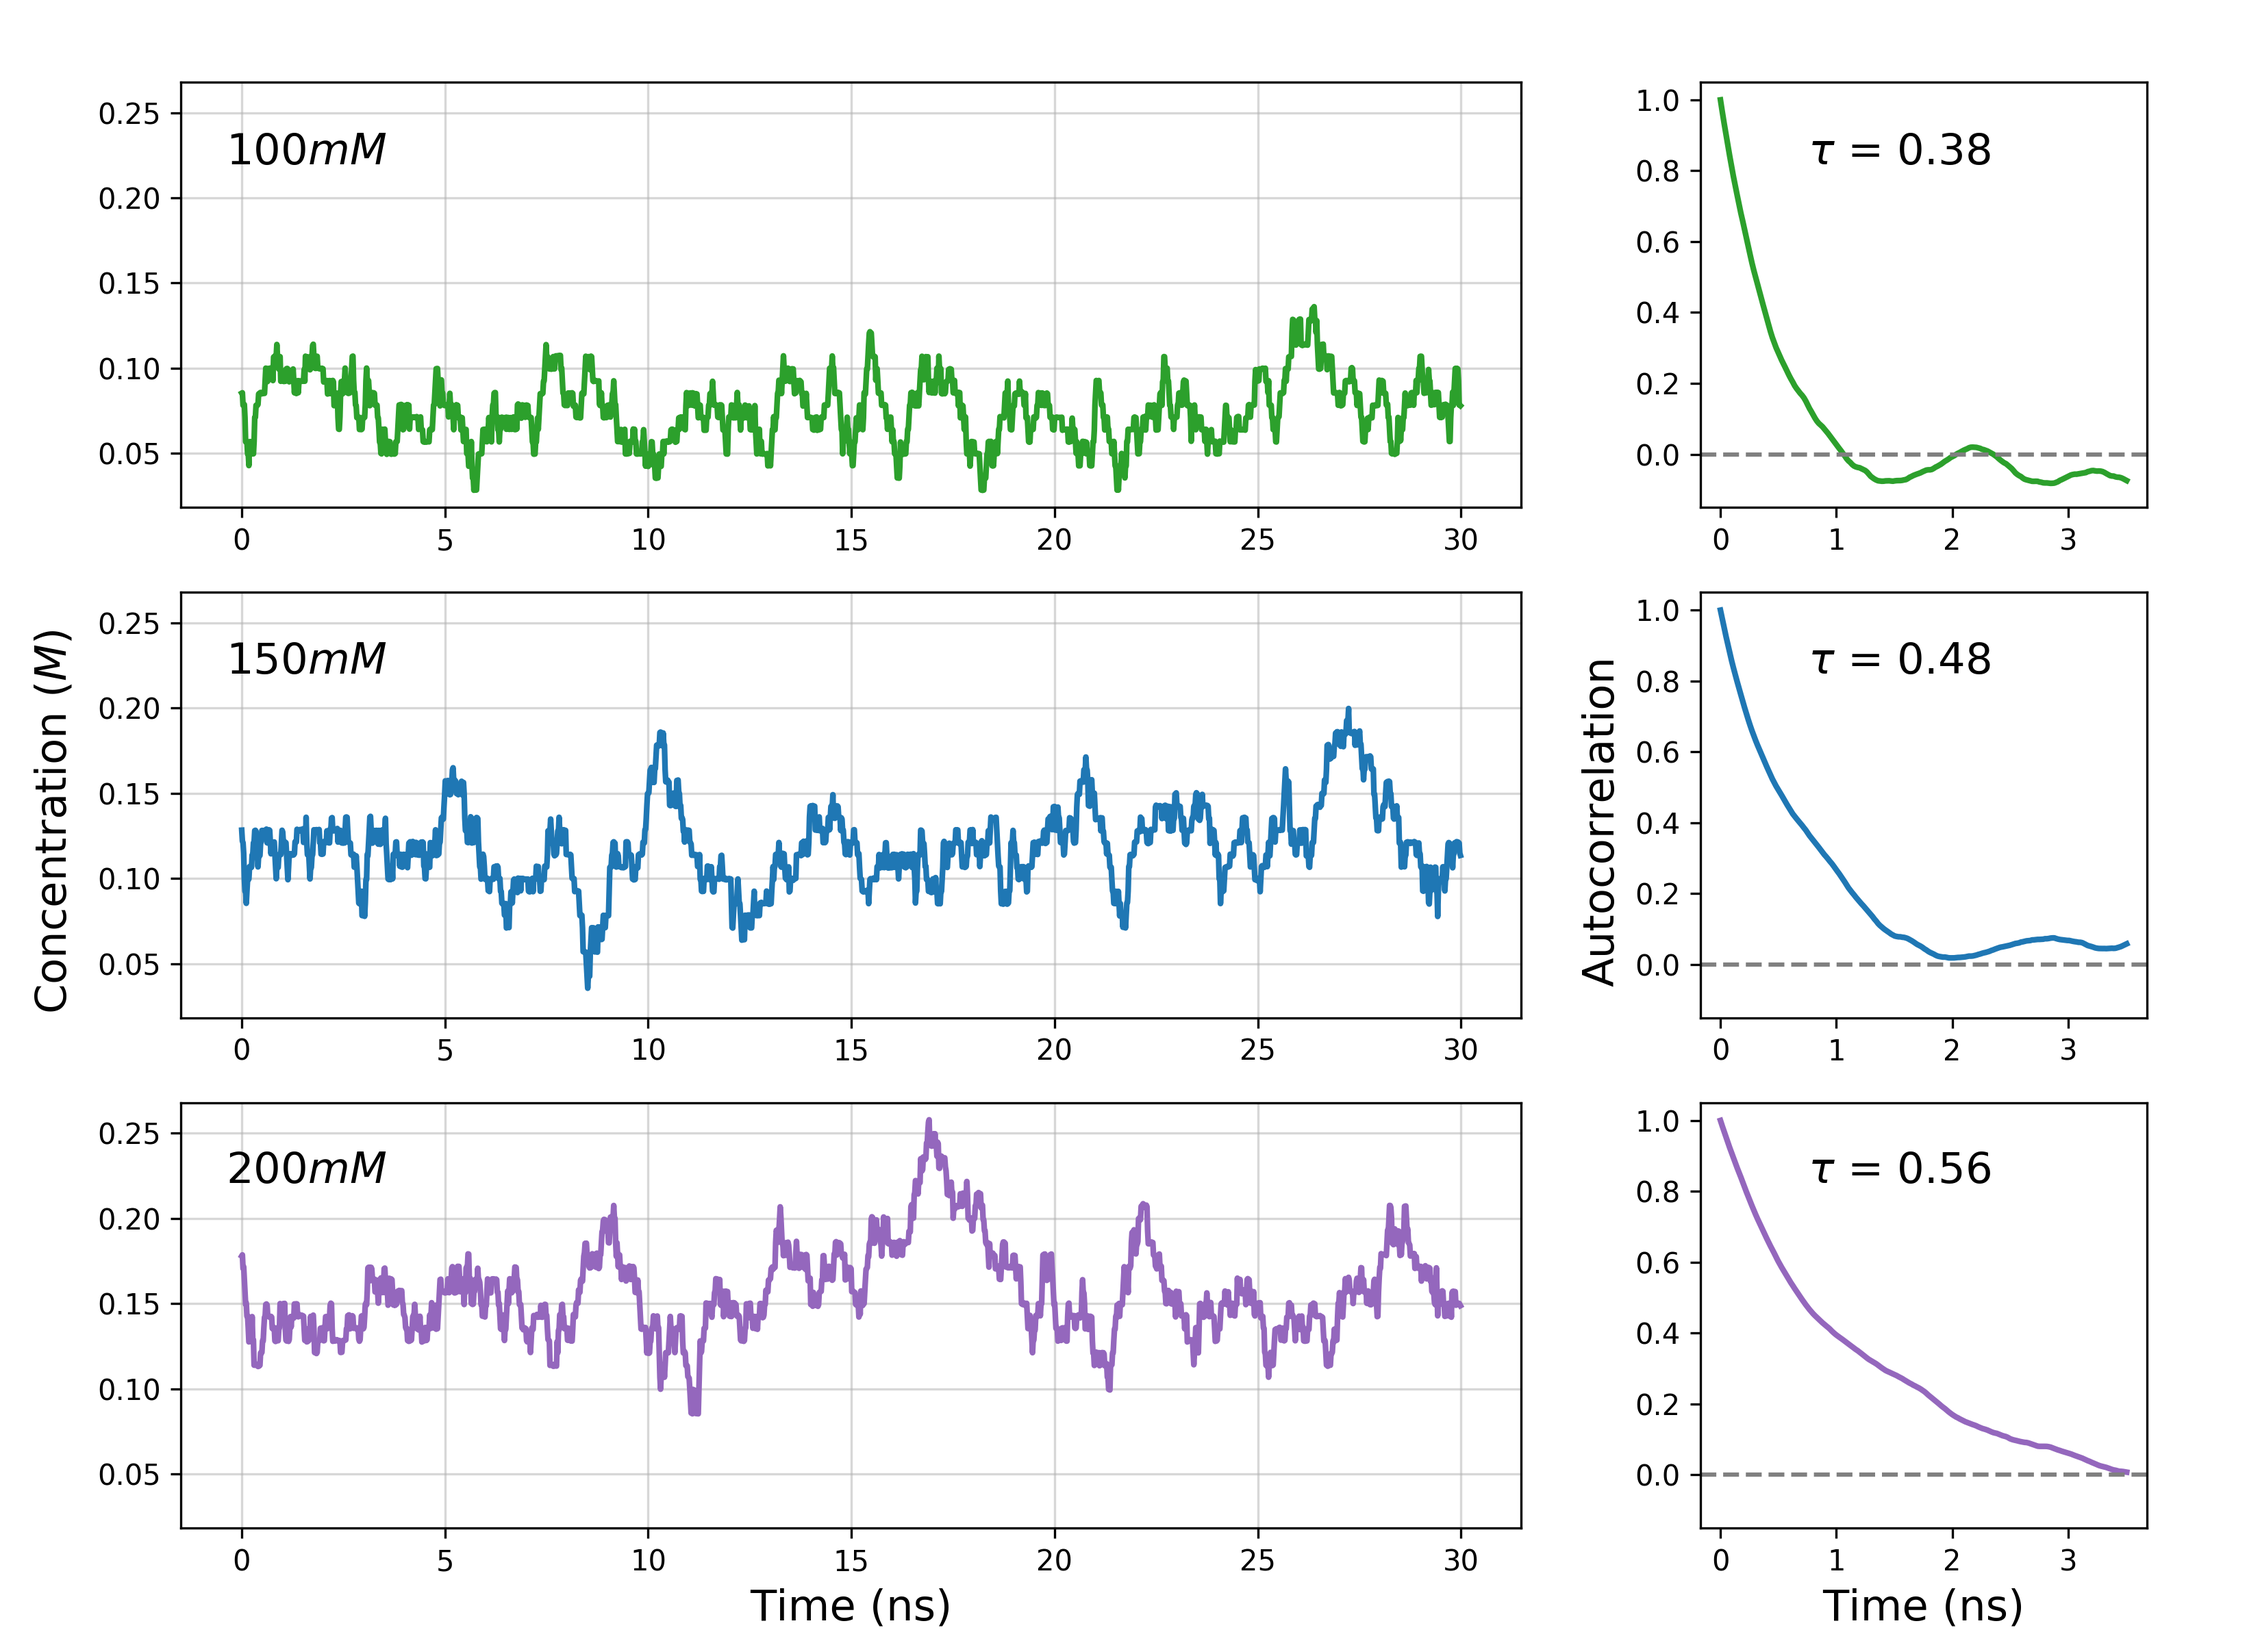
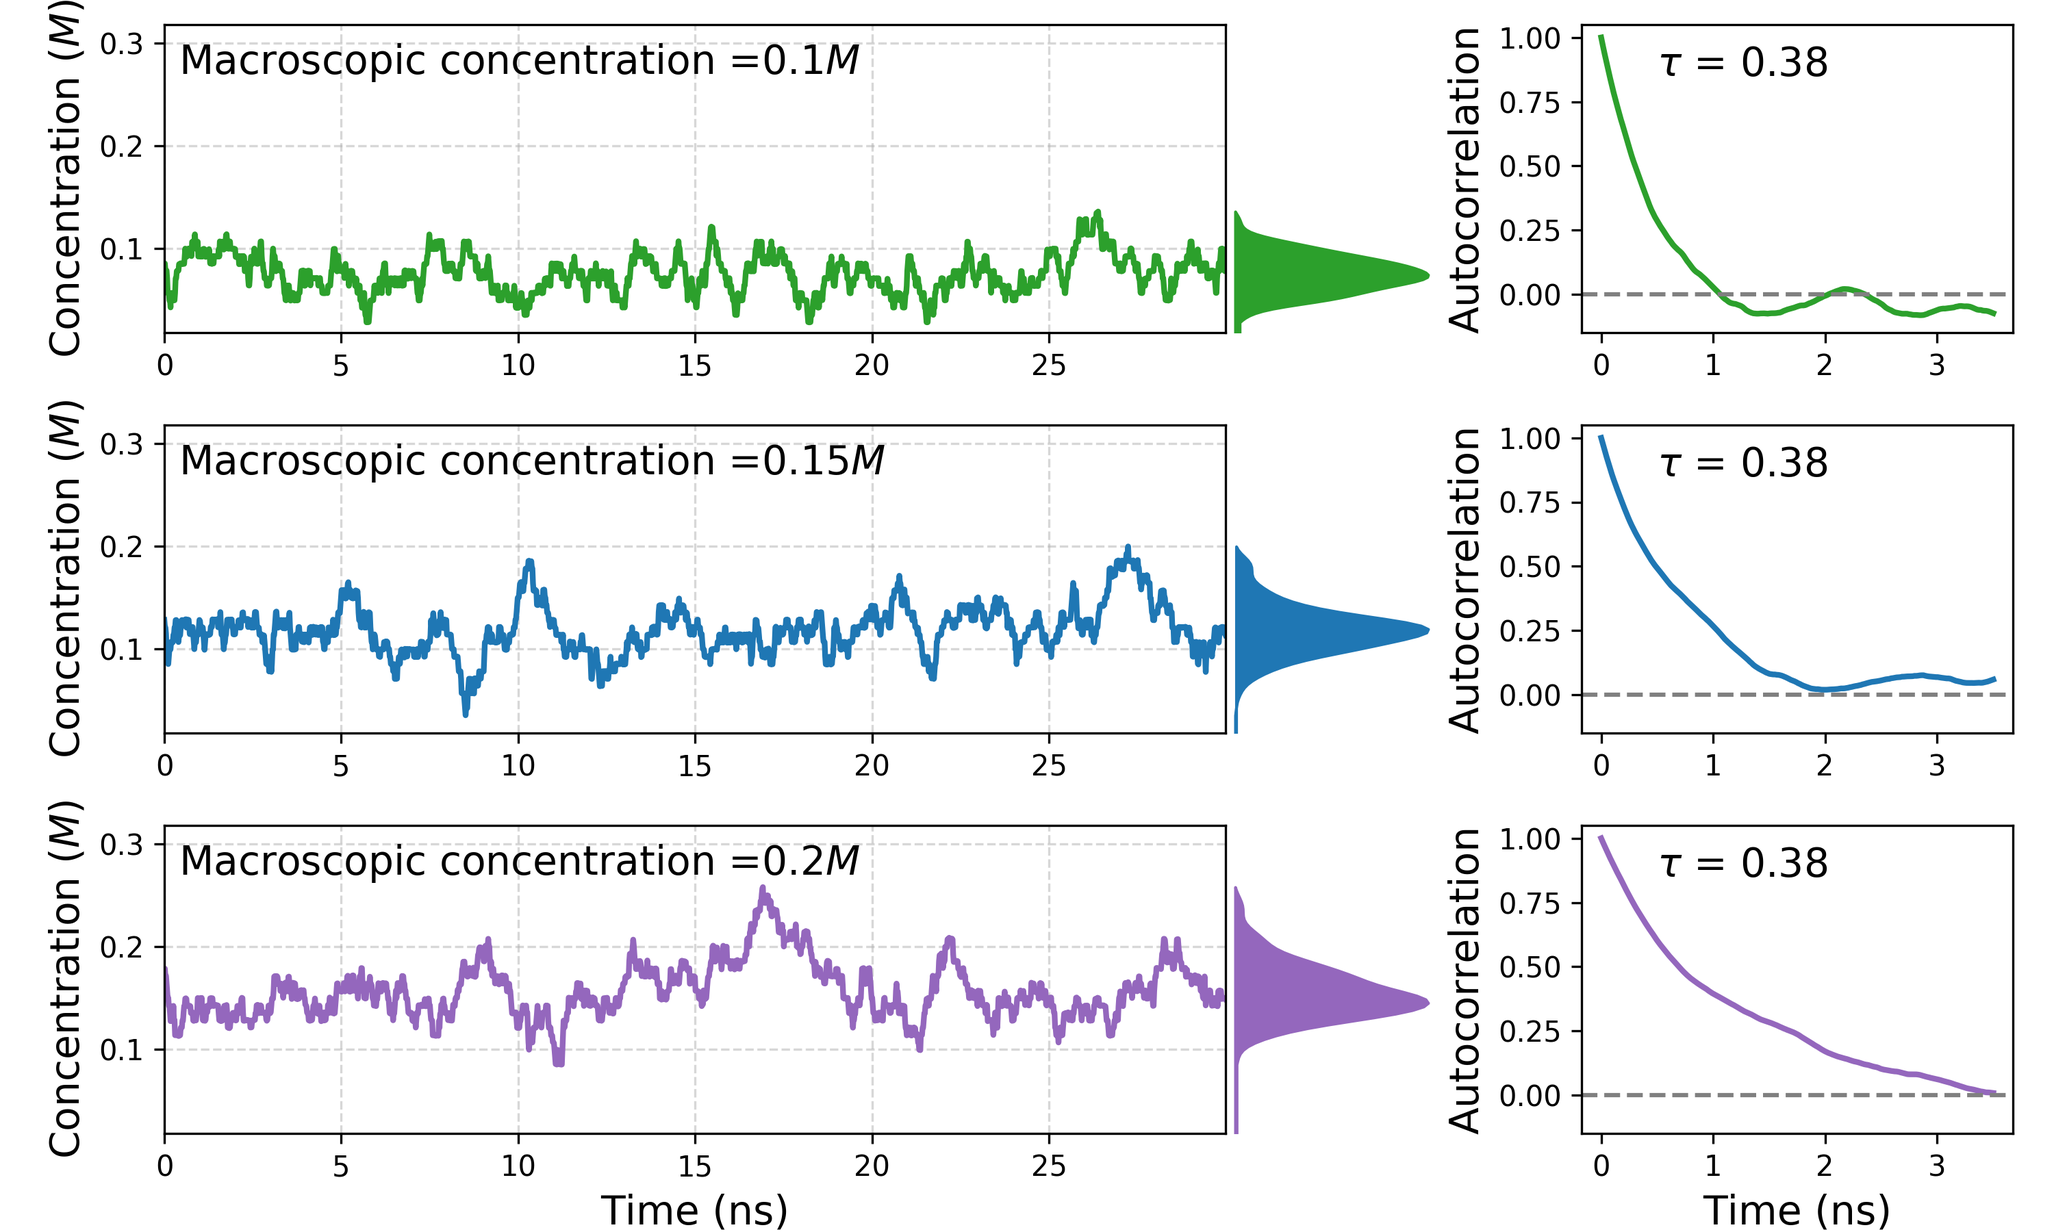
Updated DHFR sampling plot with histogram from timeseries. This required re-working the plotting method.

diff --git a/analysis_scripts/plot_dhfr_sampling.py b/analysis_scripts/plot_dhfr_sampling.py
@@ -1,11 +1,12 @@
 import numpy as np
 from netCDF4 import Dataset
 import matplotlib.pyplot as plt
-
+import matplotlib.gridspec as gridspec
+from scipy.stats import gaussian_kde
 from pymbar import timeseries
 
 # Plotting parameters
-FONTSIZE = 15
+FONTSIZE = 14
 TICKSIZE = 12
 LEGENDSIZE = 12
 LINEWIDTH = 2
@@ -70,12 +71,18 @@ corr_t_200mM = corr_t_200mM/float(runs)
 corfunc_100mM = timeseries.normalizedFluctuationCorrelationFunction(np.hstack((conc_100mM[0,:],conc_100mM[1,:],conc_100mM[2,:])), norm=True)
 corfunc_150mM = timeseries.normalizedFluctuationCorrelationFunction(np.hstack((conc_150mM[0,:],conc_150mM[1,:],conc_150mM[2,:])), norm=True)
 corfunc_200mM = timeseries.normalizedFluctuationCorrelationFunction(np.hstack((conc_200mM[0,:],conc_200mM[1,:],conc_200mM[2,:])), norm=True)
+### Creating a grid of subplots with specific spacing
+plt.figure(figsize=(10, 6))
+gs1 = gridspec.GridSpec(3, 6)
+gs1.update(top=0.98, bottom= 0.08, left=0.08, right=0.7, wspace=0.0, hspace=0.3)
+gs2 = gridspec.GridSpec(3, 1)
+gs2.update(top=0.98, bottom= 0.08, left=0.77, right=0.98, hspace=0.3)
 
-### The actual plotting part
-fig, ax = plt.subplots(3, 2, figsize=(11,8), gridspec_kw={'width_ratios':[3, 1]})
-plt.subplots_adjust(left=0.08, right=0.95, top=0.95, bottom=0.07)
-
-
+ax = np.zeros((3,3), dtype=object )
+for i in range(3):
+    ax[i, 0] = plt.subplot(gs1[i, :5])
+    ax[i, 1] = plt.subplot(gs1[i, 5:6])
+    ax[i, 2] = plt.subplot(gs2[i,:])
 
 # Setting the length of the xaxes
 t_sim = np.arange(len(conc_100mM[0,:])) * iter2ns
@@ -90,30 +97,37 @@ auto_corr_time = [corr_t_100mM*iter2ns, corr_t_150mM*iter2ns, corr_t_200mM*iter2
 colors = ['C2', 'C0', 'C4']
 axis_nudge = 0.01
 
+s_timeseries = ['$0.1M$', '$0.15M$', '$0.2M$']
+YLIM = (np.min(concs[0])-axis_nudge, np.max(concs[-1])+axis_nudge*6)
+t_dens = np.linspace(YLIM[0], YLIM[1])
+
+BW = 0.3
 for i in range(len(concs)):
+    # Timeseries
     ax[i, 0].plot(t_sim, concs[i], color=colors[i], lw=LINEWIDTH)
-    ax[i, 0].set_ylim(np.min(concs[0])-axis_nudge, np.max(concs[-1])+axis_nudge)
-    ax[i, 0].grid(alpha=0.5)
-for j in range(len(concs)):
-    ax[j, 1].plot(t_corr, corr_funcs[j], color=colors[j], lw=LINEWIDTH)
-    ax[j, 1].set_ylim((-0.15, 1.05))
-    ax[j, 1].axhline(0, color='grey', ls='--')
-
-fig.text(0.015, 0.5, 'Concentration ($M$)', va='center', rotation='vertical', fontsize=FONTSIZE)
-fig.text(0.7, 0.5, 'Autocorrelation', va='center', rotation='vertical', fontsize=FONTSIZE)
-
-# The text heights are chosen to all be the same distance from each other and correctly aligned to plots
-text_heights = 0.9 - 0.31*np.arange(3)
-
-fig.text(0.1, text_heights[0], '$100mM$', fontsize=FONTSIZE)
-fig.text(0.1, text_heights[1], '$150mM$', fontsize=FONTSIZE)
-fig.text(0.1, text_heights[2], '$200mM$', fontsize=FONTSIZE)
-
-fig.text(0.8, text_heights[0], '$\\tau$ = {0:.2f}'.format(corr_t_100mM*iter2ns), fontsize=FONTSIZE)
-fig.text(0.8, text_heights[1], '$\\tau$ = {0:.2f}'.format(corr_t_150mM*iter2ns), fontsize=FONTSIZE)
-fig.text(0.8, text_heights[2], '$\\tau$ = {0:.2f}'.format(corr_t_200mM*iter2ns), fontsize=FONTSIZE)
+    ax[i, 0].set_ylim(YLIM)
+    ax[i, 0].grid(alpha=0.5, ls='--')
+    ax[i, 0].set_xlim(0,np.max(t_sim))
+    ax[i, 0].set_ylabel('Concentration ($M$)', fontsize=FONTSIZE)
+    ax[i, 0].text(0.4, 0.27, 'Macroscopic concentration =' + s_timeseries[i], fontsize=FONTSIZE)
+    # Histograms
+    #ax[i, 1].hist(concs[i], orientation='horizontal', color=colors[i], bins=8)
+    #ax[i, 1].set_ylim(np.min(concs[0])-axis_nudge, np.max(concs[-1])+axis_nudge)
+    #ax[i, 1].set_axis_off()
+    # Kernel density estimate
+    dens = gaussian_kde(concs[i], bw_method=BW)
+    t_dens = np.linspace(np.min(concs[i]), np.max(concs[i]))
+    ax[i, 1].fill_between(dens(t_dens), t_dens, color=colors[i])
+    ax[i, 1].set_ylim(YLIM)
+    ax[i, 1].set_axis_off()
+    # Autocorrelation function
+    ax[i, 2].plot(t_corr, corr_funcs[i], color=colors[i], lw=LINEWIDTH)
+    ax[i, 2].set_ylim((-0.15, 1.05))
+    ax[i, 2].axhline(0, color='grey', ls='--')
+    ax[i, 2].set_ylabel('Autocorrelation', fontsize=FONTSIZE)
+    ax[i, 2].text(0.5, 0.85, '$\\tau$ = {0:.2f}'.format(corr_t_100mM*iter2ns), fontsize=FONTSIZE)
 
 ax[2, 0].set_xlabel('Time (ns)', fontsize=FONTSIZE)
-ax[2, 1].set_xlabel('Time (ns)', fontsize=FONTSIZE)
+ax[2, 2].set_xlabel('Time (ns)', fontsize=FONTSIZE)
 
 plt.savefig('DHFR_sampling.png', dpi=DPI)
